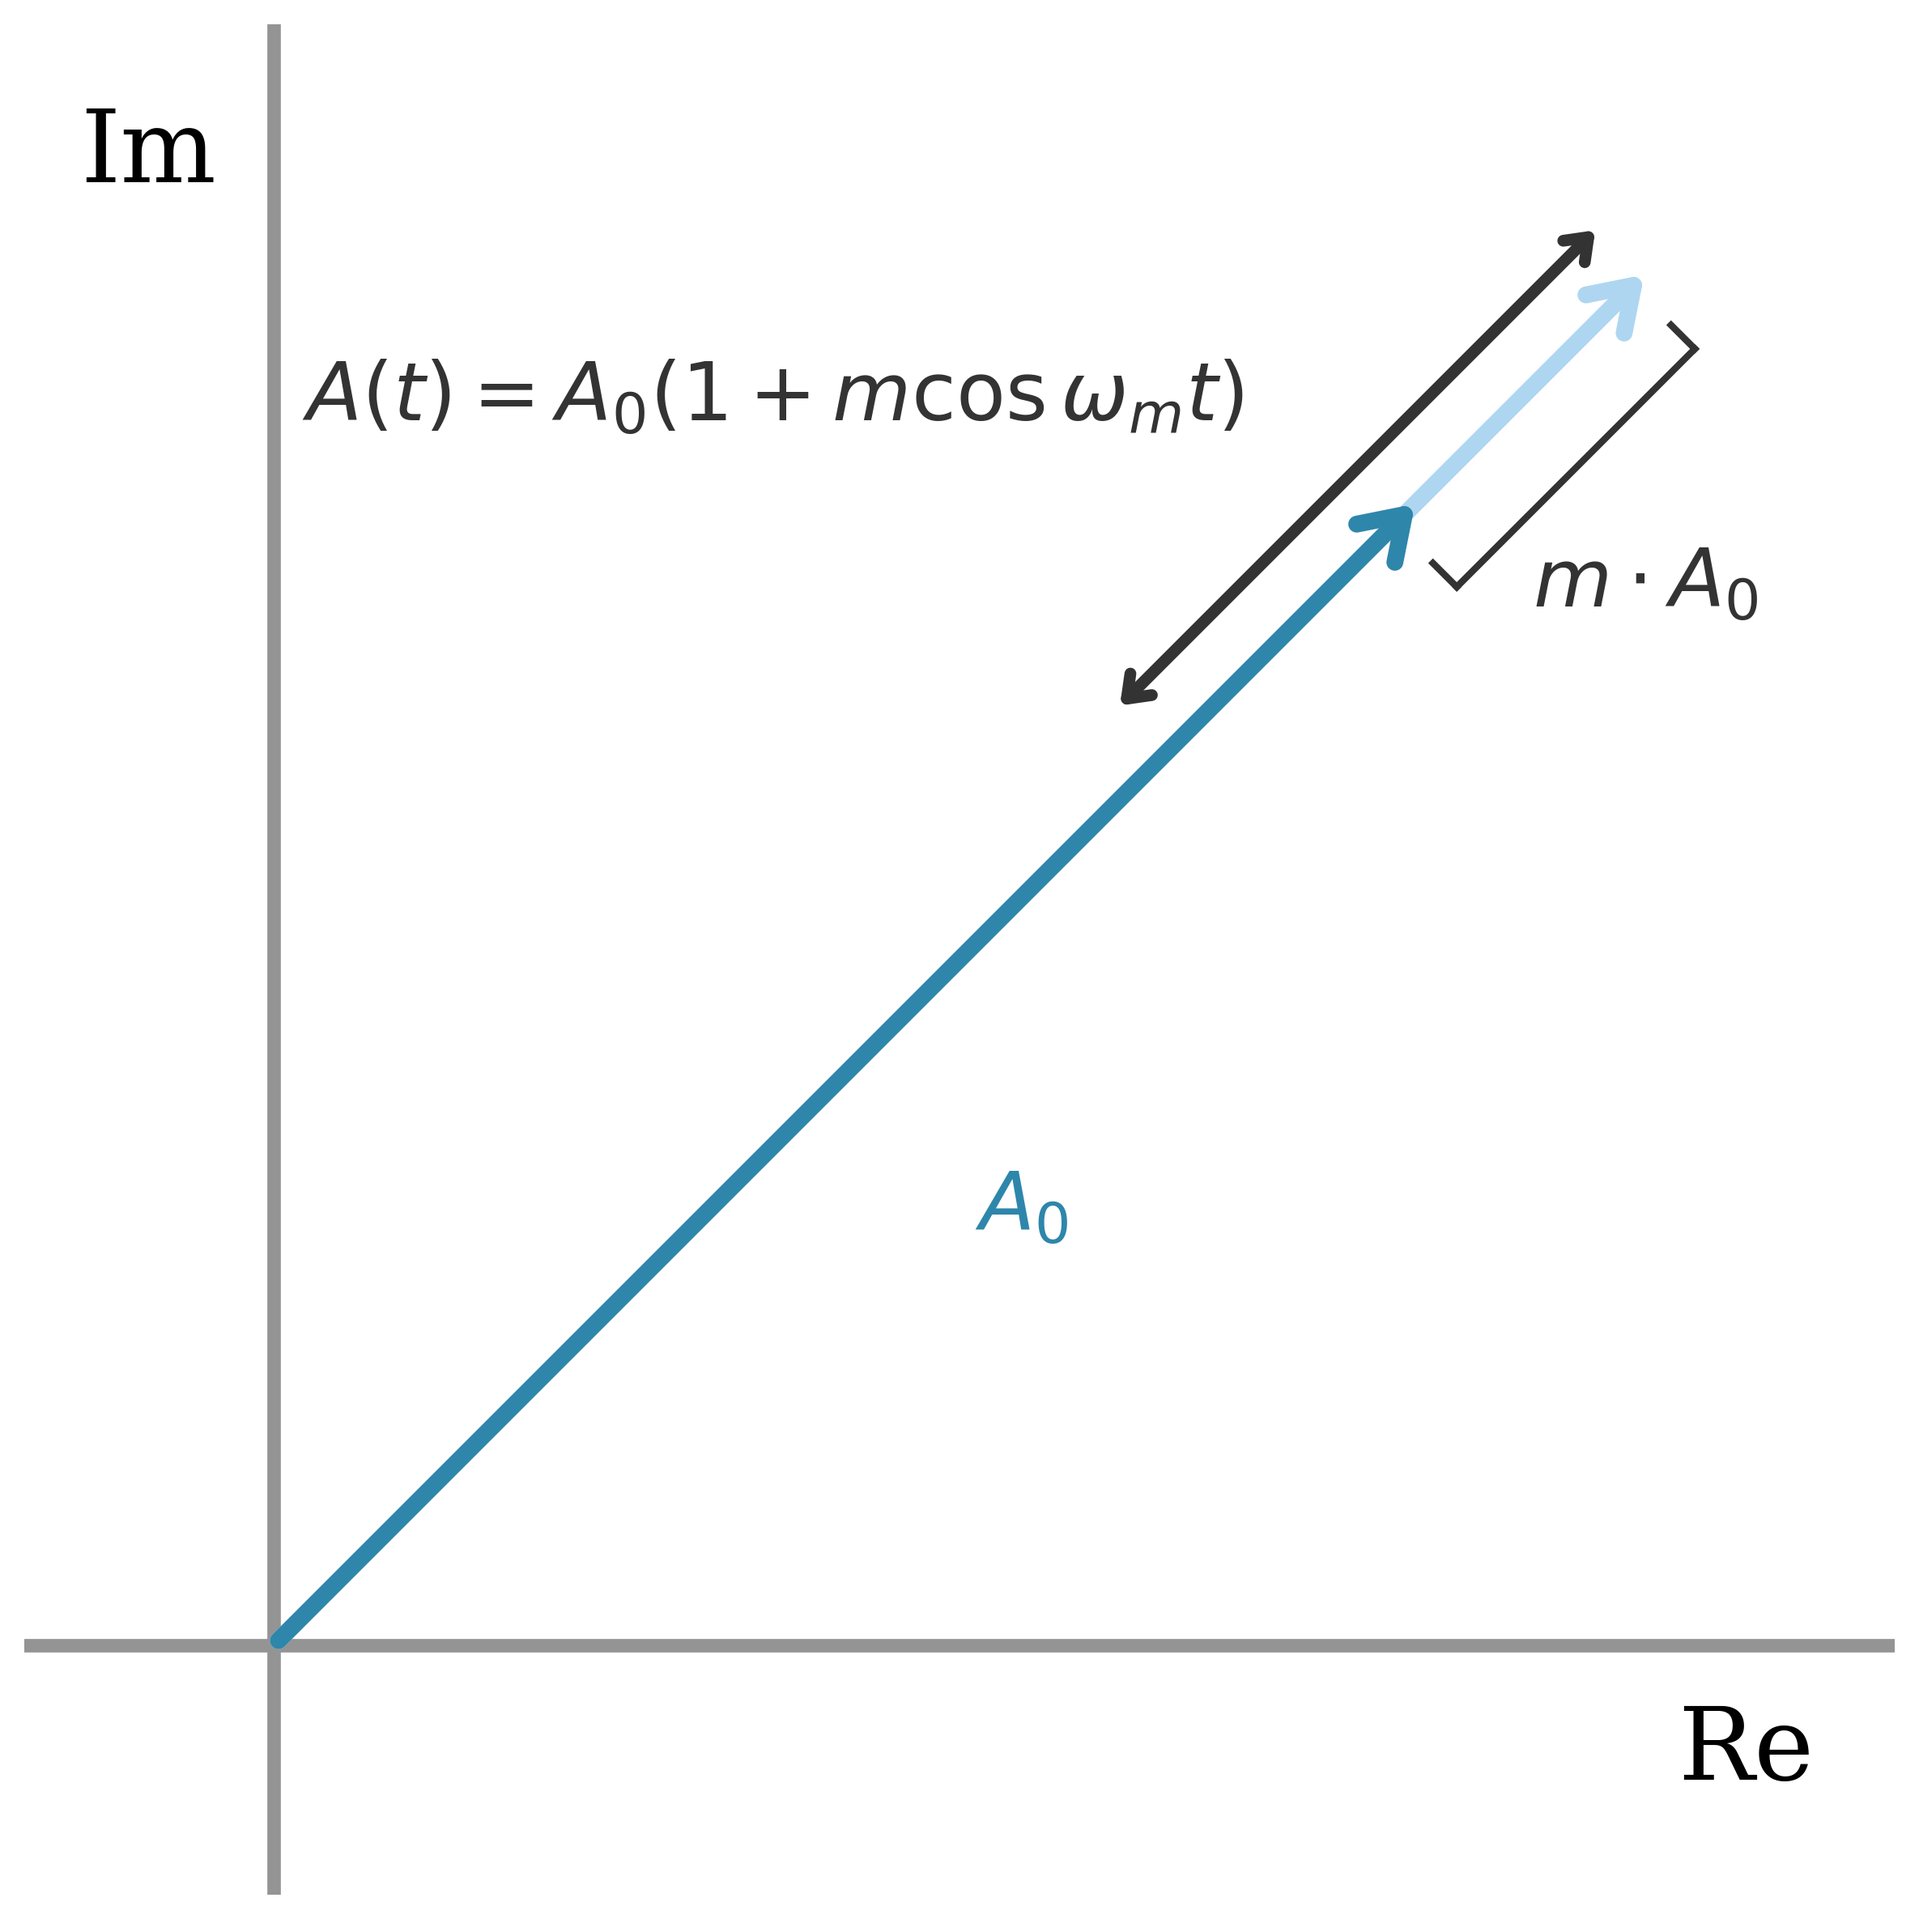
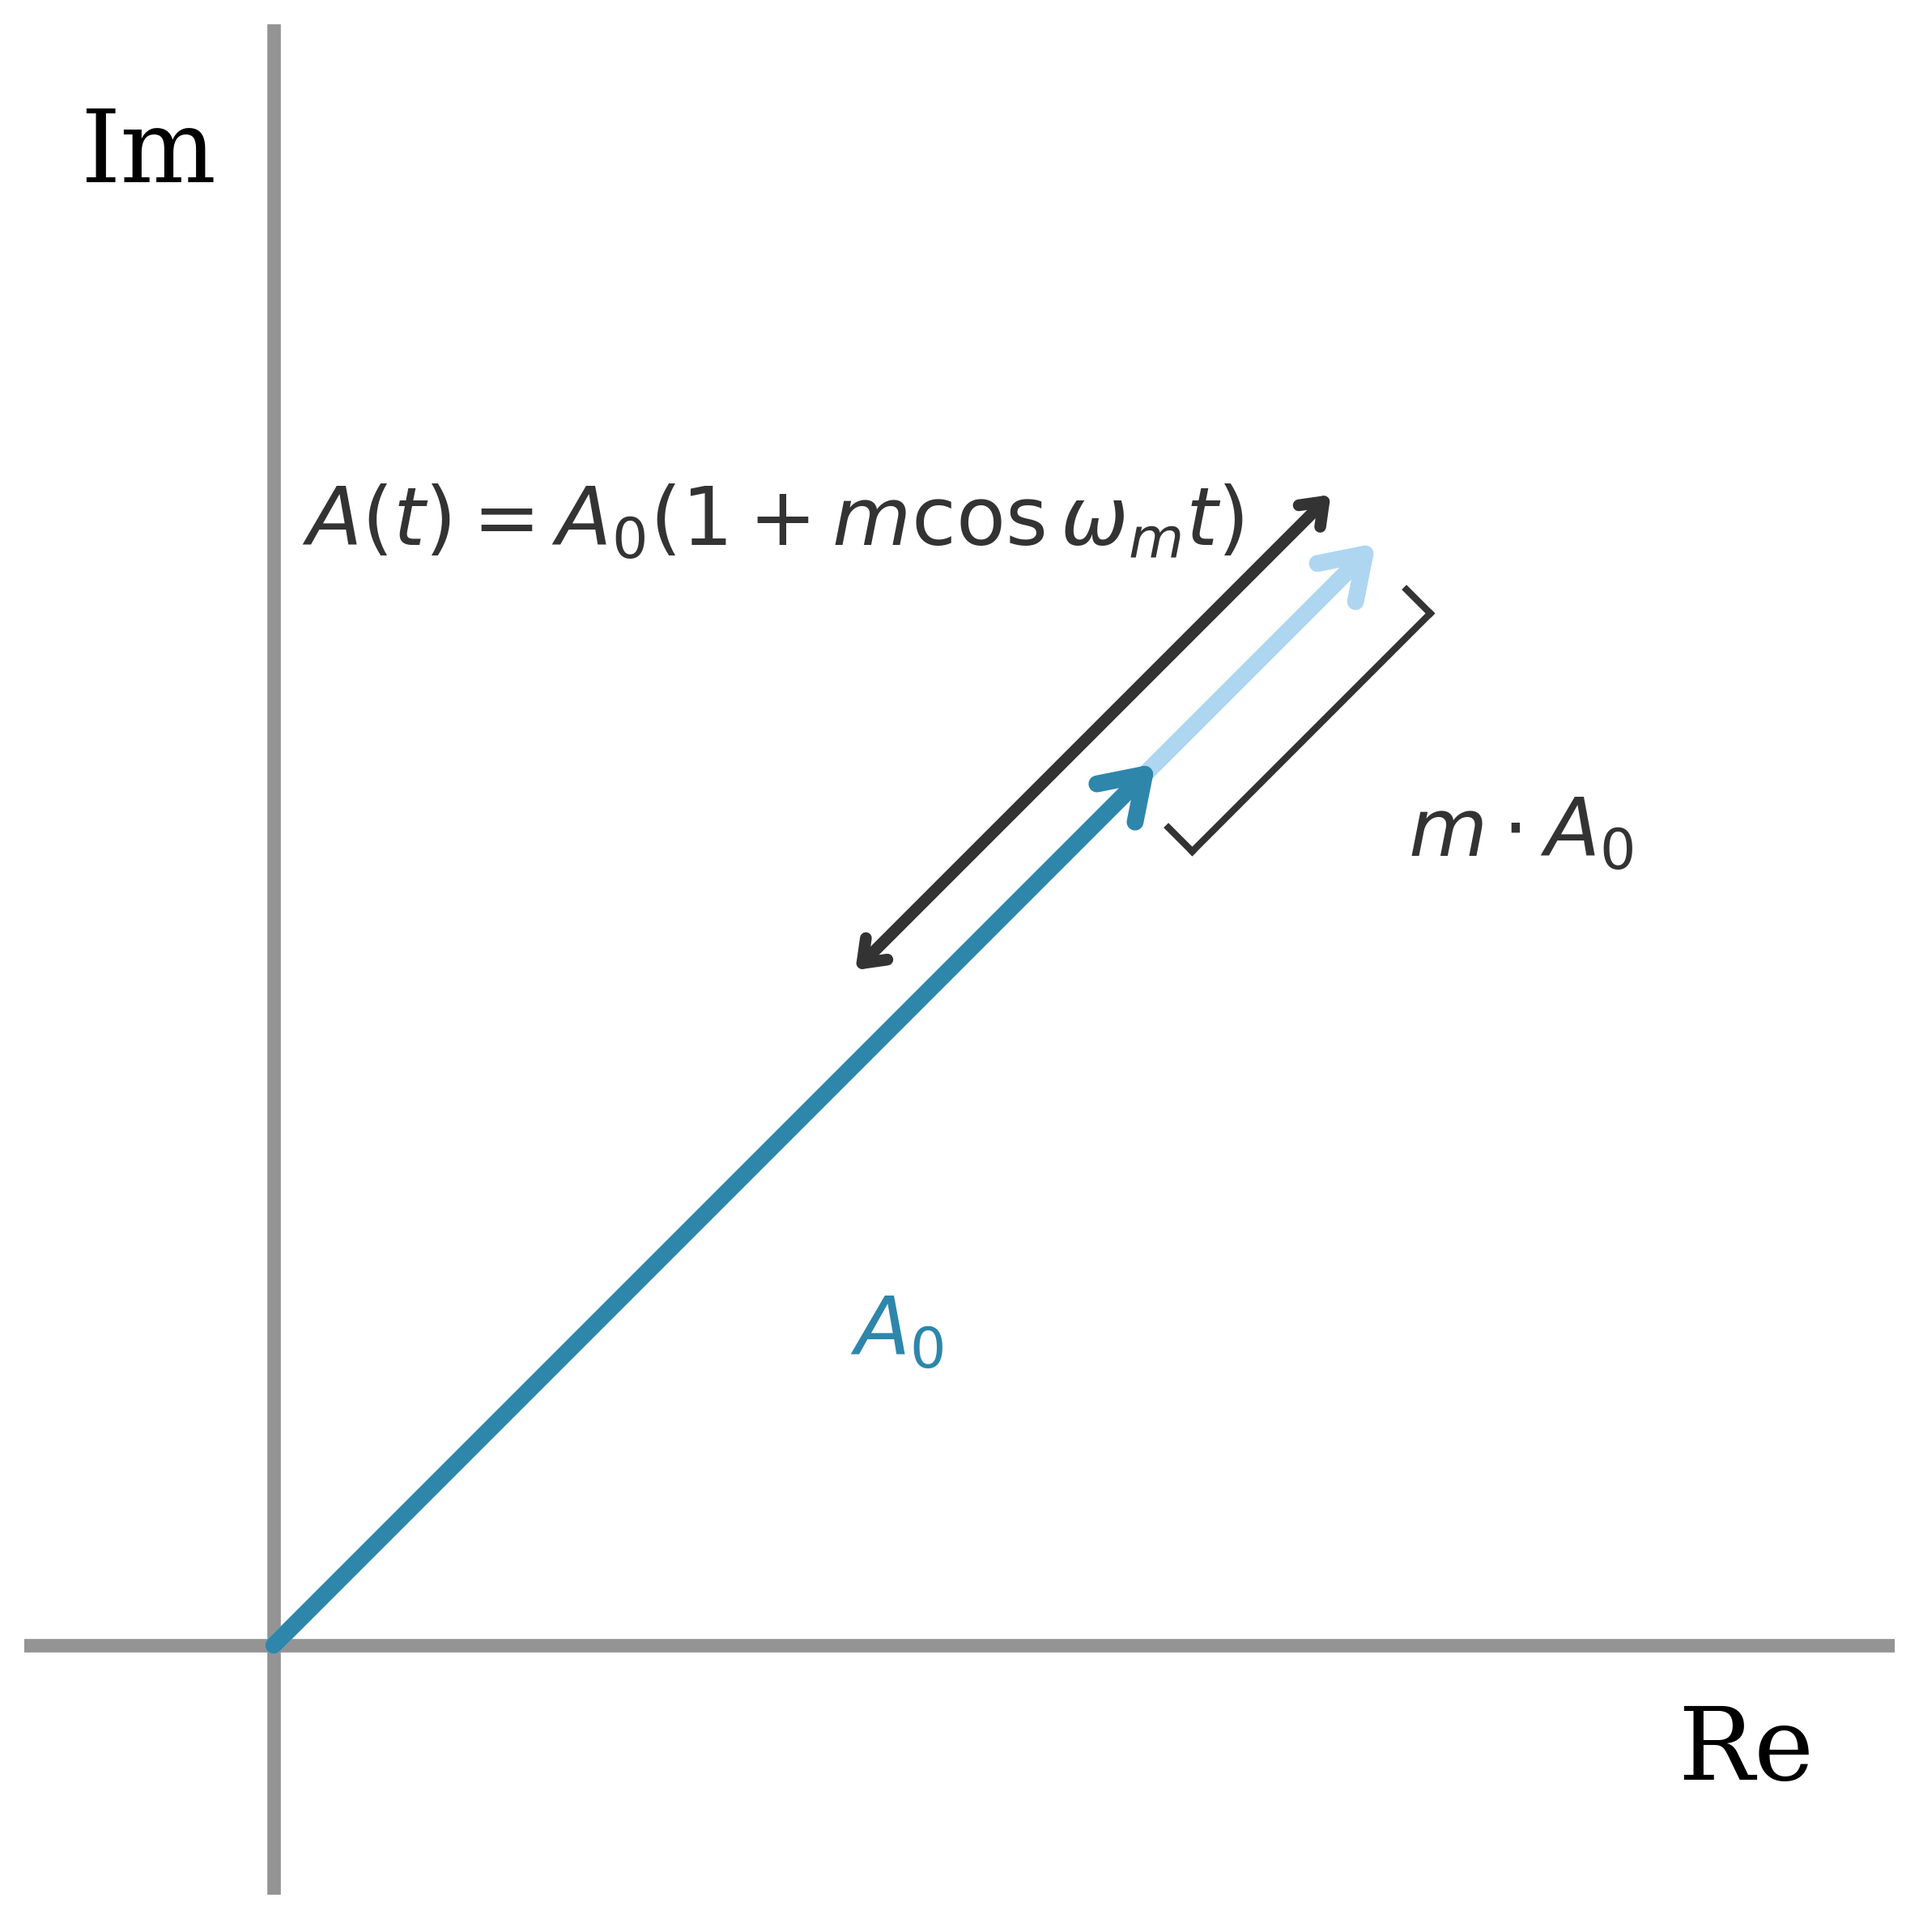
updates, up to illustration 3 working

diff --git a/phasor-simulations/main.py b/phasor-simulations/main.py
@@ -136,8 +136,10 @@ def draw_phasor(ax, start, end, color='#2E86AB', linewidth=2.5, label=None):
         label: Optional label for the arrow
     """
     arrow = FancyArrowPatch(
-        start, end,
+        start, end,  # Extend slightly beyond the end point for better arrowhead visibility
         arrowstyle='->,head_width=0.4,head_length=0.6',
+        shrinkA=0,
+        shrinkB=0,
         color=color,
         linewidth=linewidth,
         mutation_scale=20,
@@ -380,12 +382,12 @@ def illustration_3_amplitude_modulation():
     fig, ax = setup_plot(xlim=(-0.2, 1.3), ylim=(-0.2, 1.3))
     
     # For visual purposes, draw a faint carrier behind the first one which extends to 1.0. Don't use transparency, but rather a lighter/more desaturated color.
-    draw_phasor(ax, (0, 0), (1.56 * np.cos(np.radians(45)), 1.56 * np.sin(np.radians(45))), 
+    draw_phasor(ax, (0, 0), (1.25 * np.cos(np.radians(45)), 1.25 * np.sin(np.radians(45))), 
                 color='#AED6F1', linewidth=5)
 
     # Carrier phasor at 45 degrees, magnitude 1
     angle = np.radians(45)
-    magnitude = 1.3
+    magnitude = 1.0
     end_point = (magnitude * np.cos(angle), magnitude * np.sin(angle))
     draw_phasor(ax, (0, 0), end_point, color='#2E86AB', linewidth=5)
     
@@ -398,9 +400,9 @@ def illustration_3_amplitude_modulation():
     draw_double_headed_arrow(ax, center, direction, length=0.55, color='#333333', linewidth=3.5)
     
     # Add label for the amplitude of the carrier and of the modulated signal
-    add_text(ax, (0.6, 0.35), r'$A_0$', fontsize=24, color='#2E86AB')
-    add_text(ax, (0.4, 1.0), r'$A(t) = A_0 \left( 1 + m \cos \omega_m t \right)$', fontsize=24, color='#333333')
-    add_text(ax, (1.1, 0.85), r'$m \cdot A_0$', fontsize=24, color='#333333')
+    add_text(ax, (0.5, 0.25), r'$A_0$', fontsize=24, color='#2E86AB')
+    add_text(ax, (0.4, 0.9), r'$A(t) = A_0 \left( 1 + m \cos \omega_m t \right)$', fontsize=24, color='#333333')
+    add_text(ax, (1.0, 0.65), r'$m \cdot A_0$', fontsize=24, color='#333333')
 
     # Add a square brace '[' to indicate the amplitude variation, angled at 45 degrees to run parallel with the modulation direction
     brace_center = (end_point[0] + 0.125, end_point[1] + 0.025)
@@ -419,50 +421,69 @@ def illustration_3_amplitude_modulation():
         ('t=3T/4', 3*np.pi/2, [315, 135]) # d) Sidebands perpendicular again
     ]
     
+    # Offsets for sidebands: [(upper_x, upper_y), (lower_x, lower_y)] for each time
+    # These offsets are applied to the start position of each sideband
+    offsets = [
+        [(0, 0), (0, 0)],  # t=0
+        [(0, 0), (0.02, 0.02)],  # t=T/4
+        [(0.02, -0.02), (0, 0)],  # t=T/2
+        [(0, 0), (0.02, 0.02)]   # t=3T/4
+    ]
+    
     for idx, (time_label, phase_offset, angles) in enumerate(times):
         fig, ax = setup_plot(xlim=(-0.2, 1.3), ylim=(-0.2, 1.3))
+        
+        # Get offsets for this time position
+        upper_offset = offsets[idx][0]
+        lower_offset = offsets[idx][1]
         
         # Carrier phasor at 45 degrees, magnitude 1
         carrier_angle = np.radians(45)
         carrier_end = (np.cos(carrier_angle), np.sin(carrier_angle))
         draw_phasor(ax, (0, 0), carrier_end, color='#2E86AB', linewidth=5)
         
-        # Upper sideband: magnitude 0.2, starts from carrier end
+        # Upper sideband: magnitude 0.2, starts from carrier end (with offset)
         upper_angle = np.radians(angles[0])
-        upper_start = carrier_end
+        upper_start = (carrier_end[0] + upper_offset[0], carrier_end[1] + upper_offset[1])
         upper_end = (upper_start[0] + 0.2 * np.cos(upper_angle),
                      upper_start[1] + 0.2 * np.sin(upper_angle))
         draw_phasor(ax, upper_start, upper_end, color='#A23B72', linewidth=3.5)
         
-        # Draw circle for upper sideband
+        # Calculate un-offset end position for upper sideband (for circle/arrow center)
+        upper_end_no_offset = (carrier_end[0] + 0.2 * np.cos(upper_angle),
+                               carrier_end[1] + 0.2 * np.sin(upper_angle))
+        
+        # Draw circle for upper sideband (centered at un-offset position)
         draw_circle(ax, carrier_end, 0.2, color='#A23B72', linestyle=':', linewidth=1.0)
         
-        # Curved arrow for upper sideband (counterclockwise)
-        arrow_radius = 0.22
+        # Curved arrow for upper sideband (counterclockwise, centered at un-offset position)
+        arrow_radius = 0.2
         arrow_angle = angles[0]
-        arrow_center = carrier_end
-        draw_curved_arrow(ax, arrow_center, arrow_radius, arrow_angle, 
-                         arrow_angle + 30, color='#A23B72', linewidth=2, direction='ccw')
+        draw_curved_arrow(ax, carrier_end, arrow_radius, arrow_angle, 
+                         arrow_angle + 50, color='#A23B72', linewidth=2, direction='ccw')
         
-        # Lower sideband: magnitude 0.2, starts from upper sideband end
+        # Lower sideband: magnitude 0.2, starts from upper sideband end (with offset)
         lower_angle = np.radians(angles[1])
-        lower_start = upper_end
+        lower_start = (upper_end[0] + lower_offset[0], upper_end[1] + lower_offset[1])
         lower_end = (lower_start[0] + 0.2 * np.cos(lower_angle),
                      lower_start[1] + 0.2 * np.sin(lower_angle))
         draw_phasor(ax, lower_start, lower_end, color='#C73E1D', linewidth=3.5)
         
-        # Draw circle for lower sideband
-        draw_circle(ax, upper_end, 0.2, color='#C73E1D', linestyle=':', linewidth=1.0)
+        # Calculate un-offset end position for lower sideband (for resultant vector)
+        lower_end_no_offset = (upper_end_no_offset[0] + 0.2 * np.cos(lower_angle),
+                               upper_end_no_offset[1] + 0.2 * np.sin(lower_angle))
         
-        # Curved arrow for lower sideband (clockwise)
+        # Draw circle for lower sideband (centered at un-offset position)
+        draw_circle(ax, upper_end_no_offset, 0.2, color='#C73E1D', linestyle=':', linewidth=1.0)
+        
+        # Curved arrow for lower sideband (clockwise, centered at un-offset position)
         arrow_angle_lower = angles[1]
-        arrow_center_lower = upper_end
-        draw_curved_arrow(ax, arrow_center_lower, arrow_radius, arrow_angle_lower ,
-                         arrow_angle_lower - 30, color='#C73E1D', linewidth=2, direction='cw')
+        draw_curved_arrow(ax, upper_end_no_offset, arrow_radius, arrow_angle_lower ,
+                         arrow_angle_lower - 50, color='#C73E1D', linewidth=2, direction='cw')
         
-        # Resultant phasor
+        # Resultant phasor (using un-offset end position)
         offset = 0.03
-        draw_phasor(ax, (offset, -offset), (lower_end[0] + offset, lower_end[1] - offset), color="#000000", linewidth=3.0)
+        draw_phasor(ax, (offset, -offset), (lower_end_no_offset[0] + offset, lower_end_no_offset[1] - offset), color="#000000", linewidth=3.0)
 
         # Add label for the time
         add_text(ax, (0.7, 0.25), time_label, fontsize=32, color='#333333')
